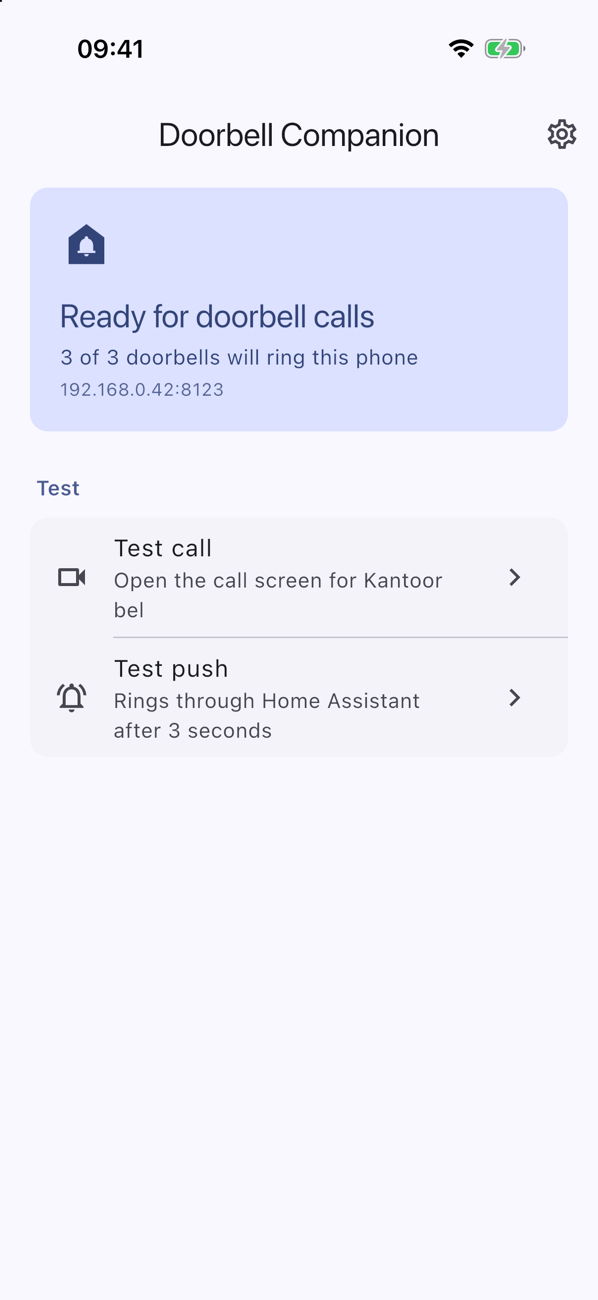
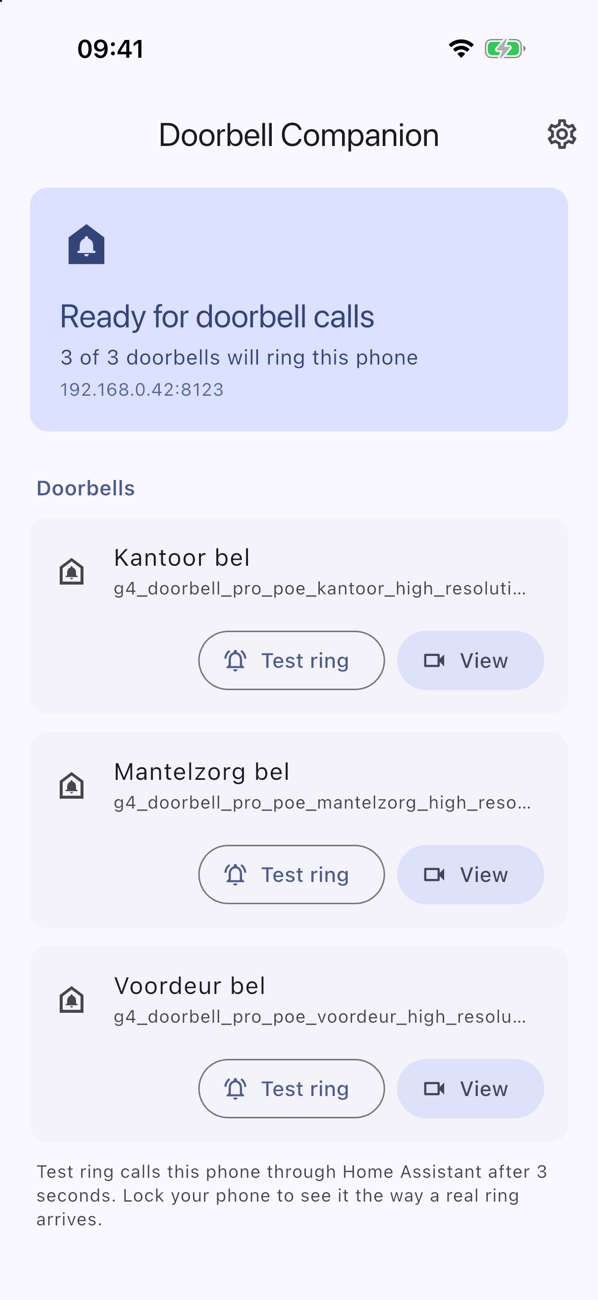
List enabled doorbells with View and Test ring actions
Replace the single Test call and Test push tiles, which always used the
first enabled doorbell, with a card per enabled doorbell. Both actions
now pass the camera to the native side on Android and iOS.

Bump to 1.0.2+3.

diff --git a/app/lib/main.dart b/app/lib/main.dart
@@ -46,7 +46,6 @@ class AppStatus {
     this.haConnected = false,
     this.haUrl = '',
     this.doorbells = const [],
-    this.firstCameraName = '',
     this.notificationsGranted = true,
     this.microphoneGranted = false,
     this.fullScreenGranted = true,
@@ -57,7 +56,6 @@ class AppStatus {
   final bool haConnected;
   final String haUrl;
   final List<DoorbellItem> doorbells;
-  final String firstCameraName;
   final bool notificationsGranted;
   final bool microphoneGranted;
   final bool fullScreenGranted;
@@ -75,7 +73,6 @@ class AppStatus {
           .whereType<Map<Object?, Object?>>()
           .map(DoorbellItem.fromMap)
           .toList(),
-      firstCameraName: (map['firstCameraName'] as String?) ?? '',
       notificationsGranted: map['notificationsGranted'] != false,
       microphoneGranted: map['microphoneGranted'] == true,
       fullScreenGranted: map['fullScreenGranted'] != false,
@@ -99,7 +96,8 @@ class DoorbellCompanionController extends ChangeNotifier {
   String? oauthError;
   String? oauthUrl;
   bool refreshing = false;
-  bool testPushPending = false;
+  /// Camera whose test ring is scheduled, if any.
+  String? testPushCamera;
 
   Future<dynamic> _handleNativeCall(MethodCall call) async {
     switch (call.method) {
@@ -229,26 +227,26 @@ class DoorbellCompanionController extends ChangeNotifier {
     return null;
   }
 
-  Future<String?> testCall() async {
+  Future<String?> testCall(String camera) async {
     try {
-      await _channel.invokeMethod('testCall');
+      await _channel.invokeMethod('testCall', {'camera': camera});
       return null;
     } on PlatformException catch (e) {
-      return e.message ?? 'Could not start the test call';
+      return e.message ?? 'Could not open the camera';
     }
   }
 
-  Future<String?> testRemotePush() async {
-    if (testPushPending) return null;
-    testPushPending = true;
+  Future<String?> testRemotePush(String camera) async {
+    if (testPushCamera != null) return null;
+    testPushCamera = camera;
     notifyListeners();
     try {
-      await _channel.invokeMethod('testRemotePush');
+      await _channel.invokeMethod('testRemotePush', {'camera': camera});
       return null;
     } on PlatformException catch (e) {
-      return e.message ?? 'Could not send the test call';
+      return e.message ?? 'Could not send the test ring';
     } finally {
-      testPushPending = false;
+      testPushCamera = null;
       notifyListeners();
     }
   }
@@ -664,8 +662,8 @@ class _ConnectedBody extends StatelessWidget {
   @override
   Widget build(BuildContext context) {
     final st = controller.status;
-    final hasDoorbell = st.doorbells.isNotEmpty;
-    final cameraName = st.firstCameraName.isNotEmpty ? st.firstCameraName : 'your doorbell';
+    final enabled = st.doorbells.where((d) => d.enabled).toList();
+    final canRing = st.pushReady != false && controller.testPushCamera == null;
 
     return RefreshIndicator(
       onRefresh: () => _refresh(context),
@@ -704,44 +702,120 @@ class _ConnectedBody extends StatelessWidget {
             ),
           ],
           const SizedBox(height: 28),
-          const _SectionHeader('Test'),
-          _DividedCard(
-            children: [
-              ListTile(
-                enabled: hasDoorbell,
-                leading: const Icon(Icons.videocam_outlined),
-                title: const Text('Test call'),
-                subtitle: Text('Open the call screen for $cameraName'),
-                trailing: const Icon(Icons.chevron_right),
-                onTap: () async {
-                  final err = await controller.testCall();
+          const _SectionHeader('Doorbells'),
+          if (enabled.isEmpty)
+            Card(
+              child: ListTile(
+                leading: const Icon(Icons.doorbell_outlined),
+                title: Text(st.doorbells.isEmpty ? 'No doorbells found' : 'No doorbells turned on'),
+                subtitle: Text(
+                  st.doorbells.isEmpty
+                      ? 'Pull down to search Home Assistant again'
+                      : 'Turn one on in Settings to test it here',
+                ),
+              ),
+            )
+          else ...[
+            for (final db in enabled) ...[
+              _DoorbellCard(
+                doorbell: db,
+                ringing: controller.testPushCamera == db.cameraEntityId,
+                canRing: canRing,
+                onView: () async {
+                  final err = await controller.testCall(db.cameraEntityId);
+                  if (err != null && context.mounted) _showMessage(context, err);
+                },
+                onTestRing: () async {
+                  final err = await controller.testRemotePush(db.cameraEntityId);
                   if (err != null && context.mounted) _showMessage(context, err);
                 },
               ),
-              ListTile(
-                enabled: hasDoorbell && st.pushReady != false && !controller.testPushPending,
-                leading: Icon(Icons.notifications_active_outlined),
-                title: const Text('Test push'),
-                subtitle: Text(
-                  controller.testPushPending
-                      ? 'Ringing in 3 seconds — lock your phone now'
-                      : 'Rings through Home Assistant after 3 seconds',
-                ),
-                trailing: controller.testPushPending
-                    ? const SizedBox(
-                        width: 20,
-                        height: 20,
-                        child: CircularProgressIndicator(strokeWidth: 2.2),
-                      )
-                    : const Icon(Icons.chevron_right),
-                onTap: () async {
-                  final error = await controller.testRemotePush();
-                  if (error != null && context.mounted) _showMessage(context, error);
-                },
-              ),
+              const SizedBox(height: 12),
             ],
-          ),
+            Padding(
+              padding: const EdgeInsets.symmetric(horizontal: 4),
+              child: Text(
+                'Test ring calls this phone through Home Assistant after 3 seconds. '
+                'Lock your phone to see it the way a real ring arrives.',
+                style: Theme.of(context).textTheme.bodySmall?.copyWith(
+                  color: Theme.of(context).colorScheme.onSurfaceVariant,
+                ),
+              ),
+            ),
+          ],
         ],
+      ),
+    );
+  }
+}
+
+class _DoorbellCard extends StatelessWidget {
+  const _DoorbellCard({
+    required this.doorbell,
+    required this.ringing,
+    required this.canRing,
+    required this.onView,
+    required this.onTestRing,
+  });
+
+  final DoorbellItem doorbell;
+  final bool ringing;
+  final bool canRing;
+  final VoidCallback onView;
+  final VoidCallback onTestRing;
+
+  @override
+  Widget build(BuildContext context) {
+    final theme = Theme.of(context);
+    return Card(
+      child: Padding(
+        padding: const EdgeInsets.only(bottom: 12),
+        child: Column(
+          crossAxisAlignment: CrossAxisAlignment.stretch,
+          children: [
+            ListTile(
+              leading: const Icon(Icons.doorbell_outlined),
+              title: Text(doorbell.name),
+              subtitle: Text(
+                ringing
+                    ? 'Ringing in 3 seconds…'
+                    : doorbell.cameraEntityId.replaceFirst('camera.', ''),
+                maxLines: 1,
+                overflow: TextOverflow.ellipsis,
+                style: ringing
+                    ? null
+                    : theme.textTheme.bodySmall?.copyWith(color: theme.colorScheme.onSurfaceVariant),
+              ),
+            ),
+            Padding(
+              padding: const EdgeInsets.symmetric(horizontal: 16),
+              child: OverflowBar(
+                alignment: MainAxisAlignment.end,
+                spacing: 8,
+                overflowSpacing: 8,
+                overflowAlignment: OverflowBarAlignment.end,
+                children: [
+                  OutlinedButton.icon(
+                    onPressed: canRing ? onTestRing : null,
+                    icon: ringing
+                        ? const SizedBox(
+                            width: 18,
+                            height: 18,
+                            child: CircularProgressIndicator(strokeWidth: 2),
+                          )
+                        : const Icon(Icons.notifications_active_outlined),
+                    label: const Text('Test ring'),
+                  ),
+                  FilledButton.tonalIcon(
+                    onPressed: onView,
+                    icon: const Icon(Icons.videocam_outlined),
+                    label: const Text('View'),
+                  ),
+                ],
+              ),
+            ),
+          ],
+        ),
       ),
     );
   }

diff --git a/app/android/app/src/main/kotlin/nl/niek/doorbellcompanion/MainActivity.kt b/app/android/app/src/main/kotlin/nl/niek/doorbellcompanion/MainActivity.kt
@@ -157,7 +157,11 @@ class MainActivity : FlutterActivity() {
 
                 "testCall" -> {
                     CallTiming.start(System.currentTimeMillis().toString())
-                    val (camId, doorbellName) = HomeAssistantAuth.resolveCameraForPush(this, emptyMap())
+                    val camera = call.argument<String>("camera").orEmpty()
+                    val (camId, doorbellName) = HomeAssistantAuth.resolveCameraForPush(
+                        this,
+                        mapOf("camera_entity_id" to camera),
+                    )
                     HomeAssistantAuth.prefs(this).edit()
                         .putString("last_doorbell_name", doorbellName)
                         .apply { if (camId != null) putString("last_ha_camera", camId) }
@@ -175,10 +179,11 @@ class MainActivity : FlutterActivity() {
                 }
 
                 "testRemotePush" -> {
+                    val camera = call.argument<String>("camera")
                     HomeAssistantAuth.ioExecutor.execute {
                         try {
                             Thread.sleep(3_000L)
-                            HomeAssistantAuth.sendTestPushViaHa(applicationContext)
+                            HomeAssistantAuth.sendTestPushViaHa(applicationContext, camera)
                             main.post { result.success(null) }
                         } catch (e: Exception) {
                             Log.w("DoorbellCompanion", "Remote test push failed: ${e.message}")
@@ -276,7 +281,6 @@ class MainActivity : FlutterActivity() {
                 "enabled" to (db.cameraEntityId !in disabled),
             )
         }
-        val firstCameraName = (doorbells.firstOrNull { it.cameraEntityId !in disabled } ?: doorbells.firstOrNull())?.name ?: ""
         // Covers the runtime permission and the app-level switch in system settings.
         val notifGranted = getSystemService(NotificationManager::class.java).areNotificationsEnabled()
         val micGranted = checkSelfPermission(Manifest.permission.RECORD_AUDIO) == PackageManager.PERMISSION_GRANTED
@@ -288,7 +292,6 @@ class MainActivity : FlutterActivity() {
             "haConnected" to haConnected,
             "haUrl" to haUrl,
             "doorbells" to doorbellMaps,
-            "firstCameraName" to firstCameraName,
             "notificationsGranted" to notifGranted,
             "microphoneGranted" to micGranted,
             "fullScreenGranted" to fullScreenGranted,

diff --git a/app/ios/Runner/AppDelegate.swift b/app/ios/Runner/AppDelegate.swift
@@ -91,10 +91,15 @@ import UIKit
         } catch { result(flutterError(error)) }
       }
     case "testCall":
-      if let bell = home.selectedDoorbell() { calls.test(bell) }
+      guard let bell = home.selectedDoorbell(camera: arguments["camera"] as? String) else {
+        result(flutterError(DoorbellCompanionError("This doorbell is no longer available")))
+        return
+      }
+      calls.test(bell)
       result(nil)
     case "testRemotePush":
-      guard calls.pushToken != nil, let bell = home.selectedDoorbell() else {
+      guard calls.pushToken != nil,
+            let bell = home.selectedDoorbell(camera: arguments["camera"] as? String) else {
         result(flutterError(DoorbellCompanionError("A registered iPhone and an enabled doorbell are required")))
         return
       }
@@ -145,7 +150,6 @@ import UIKit
     var value: JSON = [
       "haConnected": home.url != nil, "haUrl": home.url?.absoluteString ?? "",
       "doorbells": home.doorbells.map(\.flutterValue),
-      "firstCameraName": home.selectedDoorbell()?.name ?? "",
       "microphoneGranted": AVCaptureDevice.authorizationStatus(for: .audio) == .authorized,
       "pushReady": pushReady,
     ]

diff --git a/app/android/app/src/main/kotlin/nl/niek/doorbellcompanion/HomeAssistantAuth.kt b/app/android/app/src/main/kotlin/nl/niek/doorbellcompanion/HomeAssistantAuth.kt
@@ -705,13 +705,13 @@ object HomeAssistantAuth {
         return notifyService
     }
 
-    fun sendTestPushViaHa(context: Context) {
+    fun sendTestPushViaHa(context: Context, camera: String? = null) {
         val baseUrl = getBaseUrl(context) ?: error("Home Assistant not configured")
         val token = getAccessToken(context) ?: error("Not authenticated")
         val notifyService = prefs(context).getString("ha_notify_service", null)?.takeIf { it.isNotBlank() }
             ?: setupPushAutomation(context)
         val serviceSlug = notifyService.removePrefix("notify.")
-        val (camId, name) = resolveCameraForPush(context, emptyMap())
+        val (camId, name) = resolveCameraForPush(context, mapOf("camera_entity_id" to camera.orEmpty()))
         val payload = JSONObject()
             .put("title", name)
             .put("message", "Someone is at the door")

diff --git a/AGENTS.md b/AGENTS.md
@@ -15,7 +15,7 @@ The Android application ID and iOS bundle ID are both `nl.niek.doorbellcompanion
 
 - From `app/`, run `flutter pub get` and `flutter analyze`. Match the Flutter version in the Android workflow when reproducing CI.
 - From `app/`, run `flutter build apk --release` for Android or `flutter build ios --simulator` on macOS for an iOS compile check. Use a signed iPhone build to verify APNs VoIP delivery and CallKit.
-- In the app, use **Test call** for camera and audio, then **Test HA push (3s delay)** with the phone locked to verify the Home Assistant push path.
+- In the app, use **View** on a doorbell for camera and audio, then **Test ring** with the phone locked to verify the Home Assistant push path.
 - From `worker/`, run `npx wrangler deploy --dry-run` to check the relay bundle locally.
 
 ## GitHub Actions

diff --git a/README.md b/README.md
@@ -56,7 +56,7 @@ adb install -r build/app/outputs/flutter-apk/app-arm64-v8a-release.apk
 1. Open the app on your home Wi-Fi and pick your Home Assistant, or enter its URL.
 2. Sign in. The app finds your doorbells and creates the automation.
 3. Allow notifications, and on Android full-screen calls. Allow the microphone for talkback.
-4. Tap **Test call**, then **Test push** and lock your phone within 3 seconds.
+4. Under a doorbell, tap **View** to check the camera, then **Test ring** and lock your phone within 3 seconds.
 
 Moving from a build with an older app ID? Disconnect that one first to avoid double rings.
 
